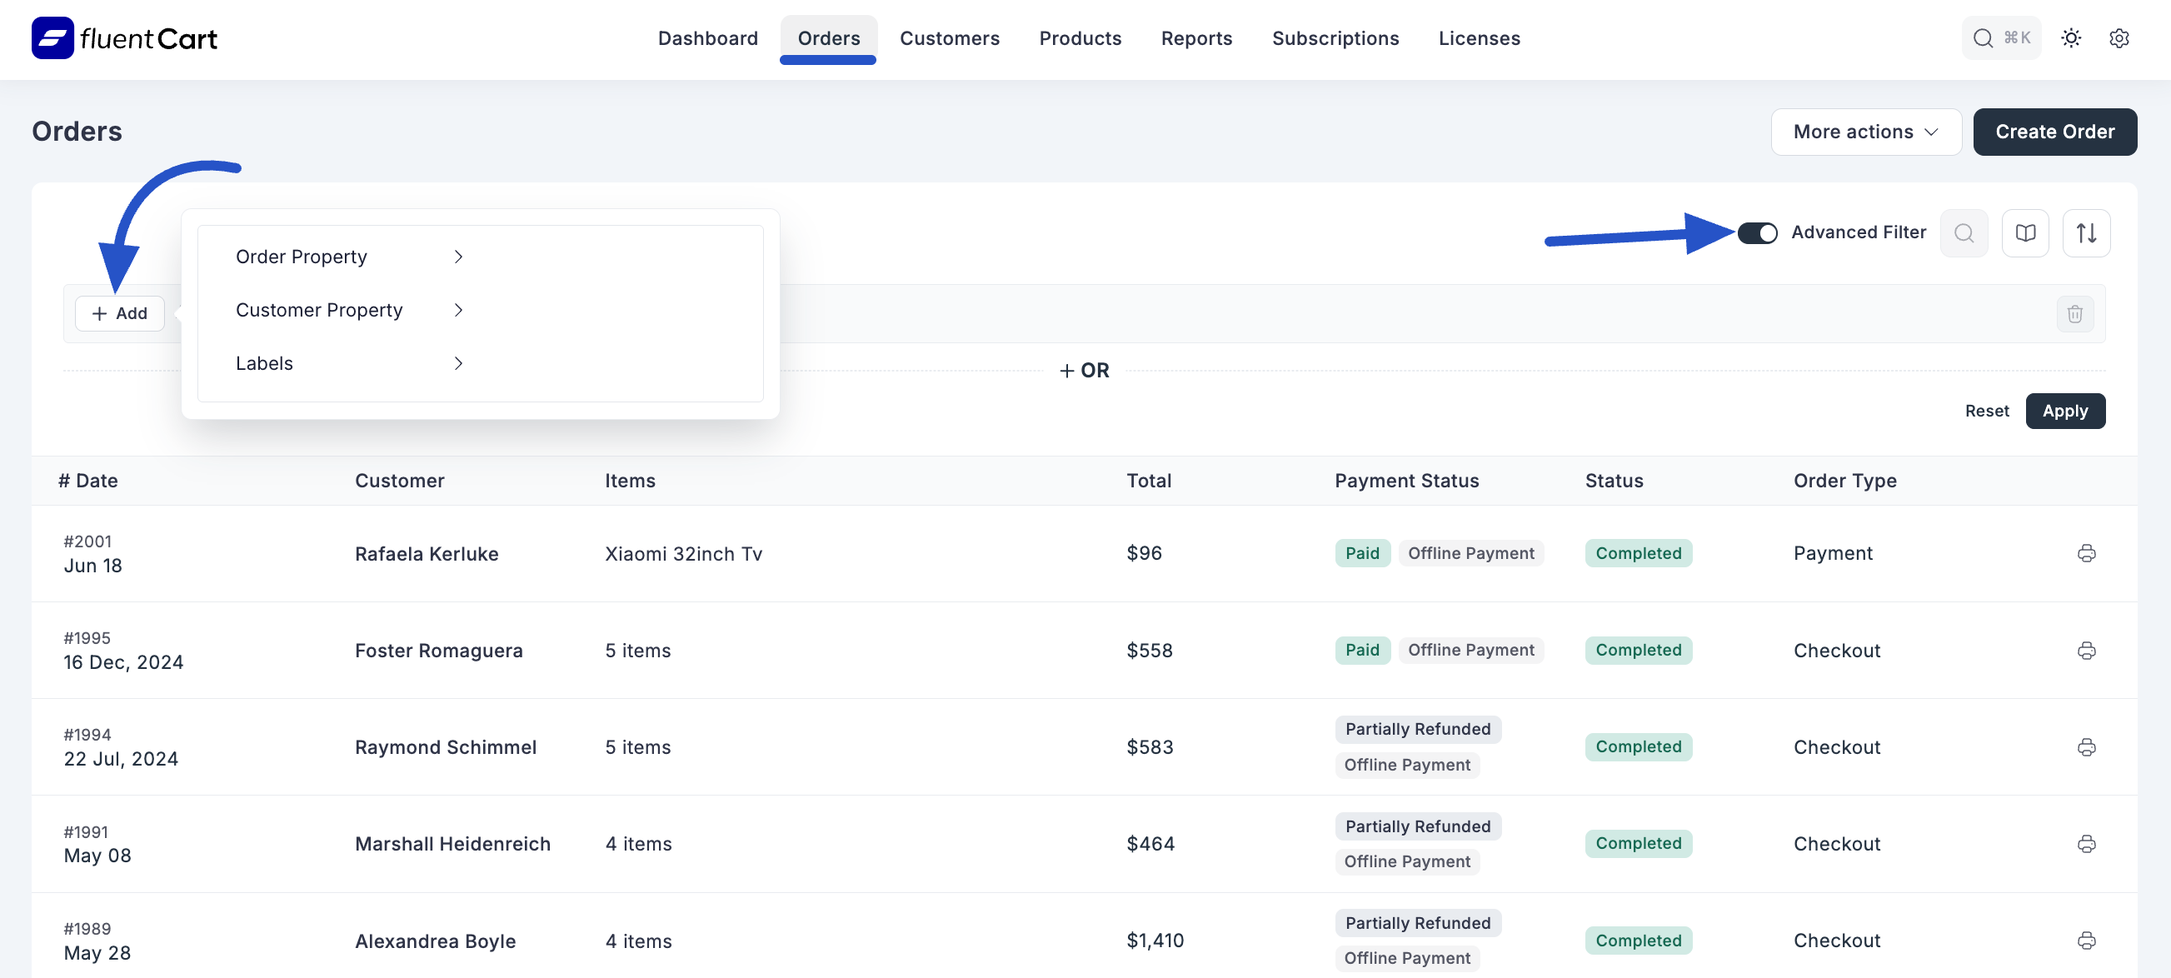
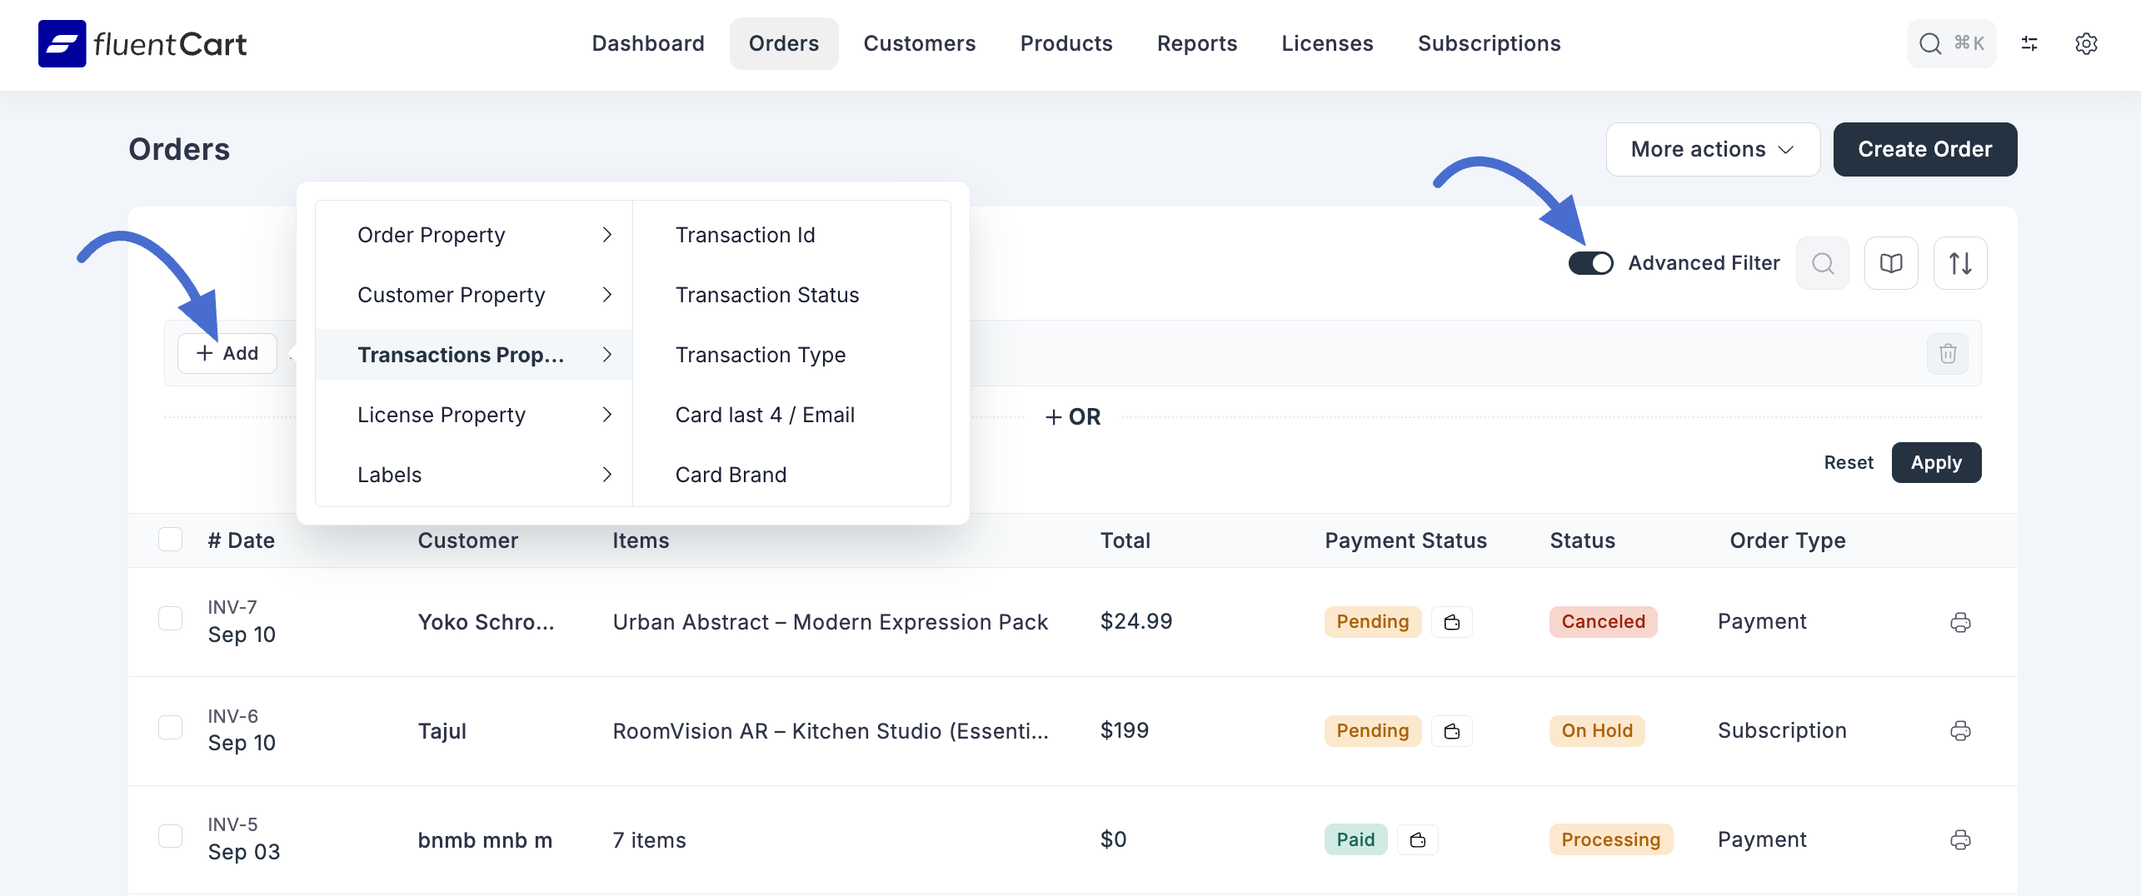
Fix FluentCart Documentation
-fix the Creating & Managing Product Brands docs description
-fix the Admin Dashboard Overview doc
-Viewing & Filtering Orders rewrite and change all image
-Order details Overview docs add new description of the Payment section
-Processing Refunds doc rewrite the Select Item/s section
-Collecting Payments for Modified Orders doc rewrite
-Configuring Shipping Zones in FluentCart doc shipping zone section rewrite
-Customer Dashboard overview doc introduction section rewrite

diff --git a/guide/store-management/orders-management/viewing-filtering-orders.md b/guide/store-management/orders-management/viewing-filtering-orders.md
@@ -2,28 +2,13 @@
 
 The Orders list is your central hub for tracking all transactions and customer purchases in your FluentCart store. This guide will show you how to view your orders and use filters to quickly find the specific orders.
 
-## Understanding Order Stats Overview
-
-Beyond the main list, you can get a quick summary of your order stats.
-To see this overview, click on **More Actions** button in the top right corner of the Orders screen, and then select "**Show Order Stats**". You can hide this overview anytime by using the same option again.
-
-This section provides a snapshot of important order numbers, including:
-
-* **All orders:** The total count of all orders in your store. 
-* **Paid Orders:** The number of orders that have been successfully paid for.
-* **Paid Order items:** The total count of individual product items across all paid orders.
-* **Order value (Paid):** The total monetary value of all paid orders.
-
-    ![Screenshot of Orders List Page](/images/store-management/viewing-and-filtering-orders/order-stats-overview.png)
-
 ## Accessing the Orders List
 
-1.  From your WordPress dashboard, navigate to **FluentCart Pro > Orders** in the top menu.
-2.  This will open the main **Orders** screen, displaying a comprehensive list of all your store's orders.
+From your WordPress dashboard, navigate to **FluentCart Pro** > **Orders**. This will take you directly to the main **Orders** screen, where you'll see a list of all the transactions in your store.
 
 ## Understanding the Orders List Table
 
-The Orders list is presented in a table format, with each row representing an individual order and displaying key information at a glance:
+Your orders are neatly organized in a table. Each row is a single order, and each column gives you a quick piece of information:
 
 * **Date:** The date and time when the order was placed.
 * **Customer:** The name of the customer who placed the order.
@@ -34,60 +19,76 @@ The Orders list is presented in a table format, with each row representing an in
 * **Order Type:** Differentiates between various types of transactions.
 * **Action Icons:** On the far right of each row, you'll see icons that let you quickly print things like order details.
 
+    ![Screenshot of Orders List Page](/images/store-management/viewing-and-filtering-orders/orders-list.png)
+
+## Customizing Your View
+
+You can change what you see on the Orders page to fit your needs. In the top-right corner, you’ll find a **More Actions** button that gives you a couple of neat options.
+
+### Showing or Hiding Order Stats
+
+If you want a quick "health check" of your store, you can show the order stats.
+
+Just click the **More Actions** button and select **Show Order Stats**. A summary will appear at the top, showing you important numbers like:
+
+* **All orders**: The total number of orders your store has ever received.
+* **Paid Orders**: How many orders have been successfully paid for.
+* **Paid Order items**: The total number of individual items sold.
+* **Order value (Paid)**: The total amount of money you've earned from paid orders.
+
+If you want to hide this summary to get more space, just click **More Actions** and choose **Hide Order Stats** option.
+
+   ![Screenshot of Orders List Page](/images/store-management/viewing-and-filtering-orders/order-stats-overview.png)
+
+### Showing and Hiding Bulk Actions
+
+Sometimes you need to do the same thing to many orders at once, like changing their status to "Shipped". That's where bulk actions come in handy.
+
+Click the **More Actions** button and select **Show Bulk Actions**. When you do this, a little checkbox will appear next to each order. You can then select multiple orders and apply an action to all of them at the same time.
+
+If you don't need to perform bulk actions and want a cleaner look, simply click **More Actions** again and choose **Hide Bulk Actions**. This will remove the checkboxes from the list.
+
 ## Filtering Orders
 
 FluentCart provides many ways to filter your orders, helping you narrow down the list based on status or other criteria.
 
 ### 1. Filtering by Order Status
 
-At the top of the orders list, you will find several default tabs for one-click filtering of the most common order statuses:
+Across the top of the list, you'll see tabs for the most common order statuses. You can click on any of them to instantly filter your orders:
 
-* **All:** Displays every order in your store, regardless of status.
-* **Completed:** Shows only orders that have been successfully paid for and fulfilled.
-* **Processing:** Filters for orders that have been paid but are still awaiting fulfillment.
-* **On Hold:** Displays orders that are awaiting payment or require manual action before they can be processed.
+* **All**: Shows every single order in your store.
+* **Completed**: Only shows orders that are fully paid and fulfilled.
+* **Processing**: Filters for orders that have been paid but are still waiting to be shipped or completed.
+* **On Hold**: Shows orders that might be waiting for payment or need some other manual check-up.
 
-For more specific filtering needs, FluentCart provides an additional set of advanced filters under the **More views** dropdown menu. Clicking on **More views** will reveal the following options:
+For even more filter options, click the **More views** dropdown menu. Here you can find more specific filters like:
 
-* **Paid:** This filter displays all orders that have a "Paid" payment status, regardless of their fulfillment status (e.g., Processing, Completed).
-* **Subscription:** Isolates only the initial orders that were placed for a new subscription.
-* **Renewal:** Shows only orders that were generated for a subscription renewal.
-* **Refunded:** Filters the list to show only orders that have been fully refunded.
-* **Partially Refunded:** Displays orders where only a portion of the total amount was returned to the customer.
-* **Upgraded From:** This view shows the original orders that customers have upgraded from (e.g., the initial "Standard Plan" order before upgrading).
-* **Upgraded To:** This view shows the new orders that were created as a result of a customer upgrading their subscription or license (e.g., the new "Pro Plan" order).
-
-
-    ![Screenshot of Orders List Page](/images/store-management/viewing-and-filtering-orders/orders-list.png)
+* **Paid**: Shows all orders that have been paid for, no matter their fulfillment status.
+* **Subscription**: Narrows the list to only the first order a customer made when they signed up for a subscription.
+* **Renewal**: Shows only the orders that were automatically created when a subscription renewed.
+* **Refunded**: Displays orders that have been fully refunded.
+* **Partially Refunded**: Shows orders where you only returned part of the money to the customer.
+* **Upgraded From / Upgraded To**: These are helpful for tracking subscription upgrades. One shows the original order, and the other shows the new, upgraded order.
 
 ### 2. Using the Advanced Filter
 
-For more specific control, use the **Advanced Filter** option:
+For times when you need to get super specific, the **Advanced Filter** is your best friend.
 
-1.  Enable the **"Advanced Filter"** by clicking the **toggle** button located at the top right of the Orders screen. You can add multiple advanced filter by clicking the **+OR** button.
-    
-2.  This will open a section with many filtering options, allowing you to search using specific details under two main categories:
+Click the toggle button next to the search bar to turn on the **Advanced Filter**. This opens up a new panel where you can set very detailed rules. Clicking the **+ Add** button reveals several categories to build your filter:
 
-**Order Property:** Filters related to the order itself, such as:
-* By order item
-* Order status
-* Payment Status
-* Order type
-* Payment Method
+* **Order Property**: Filters related to the order itself, like which product was ordered or the payment method used. For example, you can filter By Order Items, Order Status, Payment Status, Order Type, Payment Method, Order Amount, Order Date.
+* **Customer Property**: Filters based on details about the customer, like their name or email address. For example, you can filter by Customer Name, Customer Email.
+* **Transactions Property**: Lets you search by specific payment details, such as the Transaction ID, Transaction Status, Card Brand, or the last 4 digits of their card.
+* **License Property**: Filters for orders that contain software licenses, based on the license key or status.
+* **Labels**: Filters orders based on any custom labels you have assigned.
 
-**Customer Property:** Filters related to the customer who placed the order, such as:
-* Customer First name
-* Customer last name
-* Customer Email and more.
-
-**Labels:** Filter related to the Labels, such as:
-* Label Name
-
-3.  Apply your desired filters and click **"Apply"** to see the refined list of orders.
-4.  You can **"Reset"** the filters to view all orders again.
+You can add multiple rules by clicking the **+OR** button to create very powerful and specific searches. When you're done, click **Apply**. To go back to the full list, just click **Reset**.
 
 ![Screenshot of Advanced Filter Button](/images/store-management/viewing-and-filtering-orders/advanced-filter-button.png) 
 
 ### 3. Using the Search Bar
 
-You can also use the general search bar located at the top of the screen to quickly find orders by ID, Status, Payment status, Method, Amount, Customer Name, or Items.
+If you just need to find something fast, the search bar at the top of the page is perfect. You can type in an Order ID, customer name, email, or product name to instantly find what you're looking for.
+
+
+

diff --git a/guide/store-management/orders-management/collecting-payments-modified-orders.md b/guide/store-management/orders-management/collecting-payments-modified-orders.md
@@ -17,24 +17,22 @@ Clicking this dropdown reveals the following options:
 
 ### 1. Custom Payment Link
 
-This is the most common method for collecting additional payments remotely from your customer.
+This is the most common way to collect an additional payment. It creates a special, secure link that you can send directly to your customer.
 
-1.  From the **"Collect Payments"** dropdown, select **"Custom Payment Link"**.
-2.  A **"Custom Payment Link"** popup window will appear.
+1. From the **Collect Payments** dropdown menu, choose the **Custom Payment Link** option.
 
-3.  Inside the popup:
-    * A unique payment link (e.g., `https://temp.xcloudon.com/custom-payment-page/?order_ha...`) will be displayed.
-    * Click the **"Copy"** button next to the link to copy it to your clipboard.
-    * You can then share this link with your customer via email, chat, or any other preferred communication method.
-    * **"Use vendor checkout" toggle:** You can enable this option. When activated, the customer will be redirected to the **vendor's specific payment page** instead of FluentCart's default payment page, leveraging their existing payment gateway setup.
+2. A small pop-up window will appear with a unique link created just for this order's remaining balance.
 
-4.  Once the customer clicks the link, they will be directed to a secure payment page where they can pay the outstanding balance using the available payment methods.
+3. Click the **Copy** button to copy this link to your clipboard. You can now paste it into an email, a chat message, or however you normally communicate with your customer.
+
+When your customer clicks the link, they will be taken to a simple and secure page where they can pay the outstanding amount using your store's available payment methods.
 
 ![Screenshot of Custom Payment Link Modal](/images/store-management/collecting-payments/custom-payment-link-modal.png)
 
 ### 2. Mark Order as Paid
 
-This option is used when you have already received the additional payment from the customer through an offline or manual process outside of FluentCart (e.g., cash payment, bank transfer, or a payment processed directly via your payment gateway's dashboard).
+This option is perfect for when you've already received the payment outside of FluentCart. Maybe the customer paid you the difference in cash, sent a bank transfer, or you charged them directly through your payment processor's website. This feature lets you manually update the order to reflect that payment
 
-1.  From the **"Collect Payments"** dropdown, select **"Mark order as paid"**.
-2.  FluentCart will update the order's status to reflect the payment as received, and the outstanding balance will be cleared.
+1. From the **Collect Payments** dropdown, simply select **Mark order as paid**.
+
+2. That's it! **FluentCart** will instantly update the order's status to show that it's fully paid. The outstanding balance will be cleared, and the transaction will be marked as complete.

diff --git a/guide/shipping/configuring-shipping-zones.md b/guide/shipping/configuring-shipping-zones.md
@@ -19,15 +19,18 @@ Shipping zones are geographical regions that allow you to define specific shippi
         ![Screenshot of Configuring Shipping Zones](/images/shipping/Configuring-Shipping-Zones/FluentCart-Shipping-Category-1.png)
 
 
-3.  **Define Zone Details**:
-    * **Zone Name**: Enter a descriptive name for your shipping zone (e.g., "European Union"). This name will help you identify the zone in your settings.
-    * **Regions**: Select the specific countries that belong to this zone. You can start typing to search for countries and select them from the dropdown.
+3. **Name Your Zone and Pick Your Regions**:
 
-        ![Screenshot of Configuring Shipping Zones](/images/shipping/Configuring-Shipping-Zones/FluentCart-Shipping-Category-2.png)
+Now you're on the setup page for your new zone. You only need to fill in two things:
+
+* **Zone Name:** Give your zone a name that's easy for you to remember. For example, "United States," "Europe," or "Local Customers."
+
+* **Regions:** This is where you choose the places that belong to this zone. Start typing a country or state into the box, and then select it from the list that appears. You can add as many regions as you need to a single zone.
+       ![Screenshot of Configuring Shipping Zones](/images/shipping/Configuring-Shipping-Zones/FluentCart-Shipping-Category-2.png)
 
 
-4.  **Save the Shipping Zone**:
-    * Once you have entered all the necessary details, click the **"Save Shipping Zone"** button.
+
+Once you're happy with the name and the regions you've selected, just click the **"Save Shipping Zone"** buttson.
 
 Your new shipping zone will now appear in the list of zones, and you can proceed to add [shipping methods](/guide/shipping/setting-up-shipping-methods.md) to it.
 

diff --git a/guide/product-types-creation/creating-managing-product-brand.md b/guide/product-types-creation/creating-managing-product-brand.md
@@ -22,9 +22,9 @@ To get started, you first need to create your brands. This process is straightfo
 
     * **Slug:** This is the URL-friendly version of the name, used in the web address for the brand's archive page. It should be all lowercase and contain only letters, numbers, and hyphens. FluentCart will often generate this automatically from the name, but you can customize it.
 
-    * **Parent Brand:** (Optional) This powerful feature allows you to create brand hierarchies. For example, if you sell a specific product line from a larger company, you could make "Air Jordan" a child of the "Nike" parent brand.
+    * **Parent Brand:** This powerful feature allows you to create brand hierarchies. For example, if you sell a specific product line from a larger company, you could make "Air Jordan" a child of the "Nike" parent brand.
 
-    * **Description:** (Optional) Add a short description for the brand. Depending on your website's theme, this description may be displayed on the brand's archive page, providing customers with more context and improving SEO.
+    * **Description:** Add a short description for the brand. Depending on your website's theme, this description may be displayed on the brand's archive page, providing customers with more context and improving SEO.
 
 4.  Click the **Add New Brand** button to save the brand. It will now appear in your main brand list.
 

diff --git a/guide/store-management/orders-management/order-details-overview.md b/guide/store-management/orders-management/order-details-overview.md
@@ -37,11 +37,12 @@ This section lists all the products included in the order.
 
 Provides a summary of the order's financial aspects, including payments received and any outstanding amounts.
 
-* **Payment:** Indicates the payment method used.
-* **Subtotal:** The total price of all items before taxes, shipping, or discounts.
-* **Total:**  The total price of all the products.
-* **Total Paid:** The amount already paid by the customer.
-* **Net Payment:** The final amount after all deductions and payments.
+* **Payment Status:** At the top of this section, a status like Paid quickly tells you whether the customer has completed their payment.
+* **Subtotal:** This is the total cost of all the products in the cart before any other charges, like shipping, are added.
+* **Shipping:** This line shows the shipping cost that was added to the order.
+* **Total:** This is the final price of the order that the customer was charged (Subtotal + Shipping + Taxes, etc.).
+* **Total Paid:** This shows how much money the customer has actually sent for this order.
+* **Net Payment:** This is the final amount your store has received after all payments have been processed.
 
 ### 4. Transaction Details
 

diff --git a/guide/customer-dashboard/index.md b/guide/customer-dashboard/index.md
@@ -1,6 +1,6 @@
 # Customer Dashboard
 
-The FluentCart Customer Dashboard serves as a comprehensive and personalized portal for every customer, offering a centralized location to manage all aspects of their interactions with your e-commerce store. This powerful dashboard empowers customers to efficiently handle their orders, subscriptions, licenses, and personal details.
+Tired of answering emails from customers asking for their past orders or download links? The FluentCart Customer Dashboard serves as a comprehensive and personalized portal for every customer, offering a centralized location to manage all aspects of their interactions with your e-commerce store. This powerful dashboard empowers customers to efficiently handle their orders, subscriptions, licenses, and personal details.
 
 Ensure you have set the Customer Dashboard page from **FluentCart Pro** > **Settings** > **Pages Setup**, and your users can access their dashboard on that particular page. For detailed instructions on setting this up, please refer to our [Pages Setup documentation](/guide/settings-configuration/pages-setup).
 

diff --git a/guide/store-management/orders-management/processing-refunds.md b/guide/store-management/orders-management/processing-refunds.md
@@ -13,7 +13,7 @@ FluentCart provides a straightforward way to process refunds for your orders, wh
 
 4.  Configure the refund details:
     * **Refund with transaction\:** Use the dropdown to select the specific payment transaction you wish to refund. This is crucial if an order had multiple payments or partial payments.
-    * **Select Item/s:** Select the items you are refunding.
+    * **Select Item/s:** This is a crucial step for keeping your records straight. Click this dropdown to choose the specific products the customer is returning. This helps keep your sales reports and inventory accurate, especially for partial returns. 
     * **Refund amount\:** Enter the amount you wish to refunds.
         * FluentCart displays the **"Max refund amount for this transaction"**, ensuring you don't refund more than was paid in that specific transaction. This allows for **partial refunds**. You can manually adjust the amount if needed.
     * **I want to Mange Stock:** Check this option to automatically update the stock quantity for this product after each sale or return. 

diff --git a/guide/payments-checkout/connecting-payment-gateways/cash-on-delivery-settings.md b/guide/payments-checkout/connecting-payment-gateways/cash-on-delivery-settings.md
@@ -8,5 +8,5 @@ Cash on Delivery allows customers to pay with cash directly upon receiving their
     ![Screenshot of Cash on Delivery Settings Page](/images/payments-checkout/cash-on-delivery-settings.png)
 
 3.  **Enable Cash on Delivery:** Check the box next to "Customers can pay for their orders by cash upon delivery." to activate this method.
-5.  **Payment Activation:** In the top right corner of this page, ensure the **Payment Activation** option is "Enabled".
+5.  **Payment Activation:** In the top right corner of this page, ensure the **Payment Activation** option is "**Enabled**".
 5.  Click the **"Save Settings"** button to apply your changes. 

diff --git a/guide/getting-started/dashboard-overview.md b/guide/getting-started/dashboard-overview.md
@@ -13,7 +13,7 @@ The FluentCart Dashboard is the first screen you see when you log into your Word
 In the top-right corner of the FluentCart dashboard, you’ll find three helpful shortcuts:
 
 - **Search (⌘K / Ctrl+K)**  
-  Open the search panel to quickly find products, customers, orders, coupons or settings across FluentCart.
+  When someone clicks on the search panel, a popup will appear allowing them to search for products, orders, customers, or settings across FluentCart.
 
 - **Theme Toggle**  
   Switch between **Light**, **Dark**, or **System** mode to match your preference.
